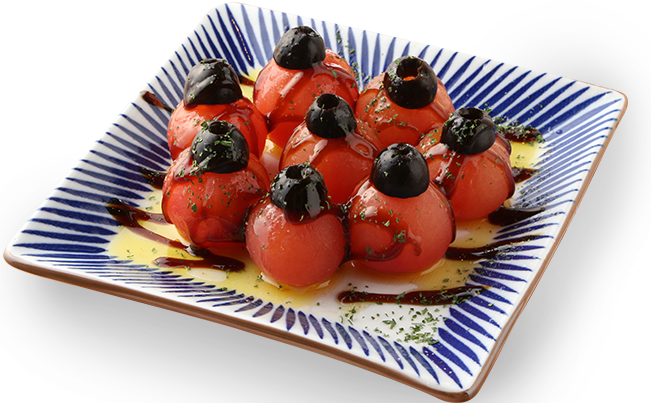
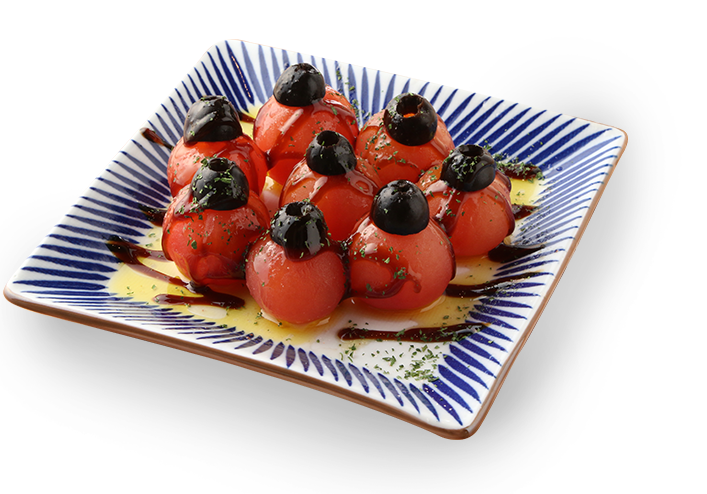
xong page counter lan 2

diff --git a/www/counter.html b/www/counter.html
@@ -48,7 +48,7 @@
     <link rel="stylesheet" href="shared/css/remodal.css" />
     <link rel="stylesheet" href="shared/css/shared.css" />
     <link rel="stylesheet" href="./shared/css/counter.css" />
-    <link rel="stylesheet" href="./shared/css/counter.scss" />
+    <!-- <link rel="stylesheet" href="./shared/css/counter.scss" /> -->
 
     <!-- font -->
     <link rel="preconnect" href="https://fonts.googleapis.com" />
@@ -290,7 +290,7 @@
               </div>
             </div>
             <div id="menu2" class="flex-pc">
-              <div class="left"><img src="./shared/img/counter/menu_img2.png" width="698" height="454" alt="サラダ" /></div>
+              <div class="left"><img src="./shared/img/counter/menu_img2.png" width="707" height="494" alt="サラダ" /></div>
               <div class="right menu-content">
                 <dl class="menu-dl">
                   <dt class="menu-dt-dd name">トマトのサラダ</dt>
@@ -304,7 +304,7 @@
               <div class="menu3 menu-content">
                 <dl class="menu-dl">
                   <dt class="menu-dt-dd">刺身の盛り合わせ</dt>
-                  <dd class="menu-dt-dd text-right">0,000円</dd>
+                  <dd class="menu-dt-dd text-right">0,000<small>円</small></dd>
                 </dl>
                 <p class="menu-txt">テキテキテキテキテキテキテキテキテキテキテキテキテキテキテキテキテキテキテキテキテキテキテキテキテキテキテキテキテキテキテキテキテキテキテキテキテキテキ</p>
                 <p class="icon_close text-center"><img src="./shared/img/counter/menu_icon_close.png" width="79" height="78" alt="close" /></p>

diff --git a/www/shared/css/counter.scss b/www/shared/css/counter.scss
@@ -9,6 +9,11 @@ body {
     background: url("../img/counter/bg.jpg") repeat top center;
   }
 }
+small {
+  @include pc {
+    font-size: 26px;
+  }
+}
 .order1-pc {
   @include pc {
     order: 1 !important;
@@ -102,14 +107,12 @@ body {
   }
 
   .wrap {
-    background: url("../img/counter/menu_deco.png") no-repeat bottom center/120% auto;
+    background: url(../img/counter/menu_deco.png) no-repeat bottom center/120% auto;
     @include pc {
       background-image: unset;
-      border-left: 1px solid red;
-      border-right: 1px solid red;
       position: relative;
       &:after {
-        content: url("../img/counter/menu_deco.png");
+        content: url(../img/counter/menu_deco.png);
         position: absolute;
         left: 284px;
         bottom: 114px;
@@ -273,10 +276,6 @@ body {
       @include pc {
         width: 408px;
         background: unset;
-      }
-      .p1 {
-      }
-      .p2 {
       }
     }
   }

diff --git a/www/shared/css/counter.css b/www/shared/css/counter.css
@@ -12,6 +12,12 @@ body {
 }
 
 @media only screen and (min-width: 768px) {
+  small {
+    font-size: 26px;
+  }
+}
+
+@media only screen and (min-width: 768px) {
   .order1-pc {
     order: 1 !important;
   }
@@ -120,17 +126,15 @@ body {
   }
 }
 #menu .wrap {
-  background: url("../img/counter/menu_deco.png") no-repeat bottom center/120% auto;
+  background: url(../img/counter/menu_deco.png) no-repeat bottom center/120% auto;
 }
 @media only screen and (min-width: 768px) {
   #menu .wrap {
     background-image: unset;
-    border-left: 1px solid red;
-    border-right: 1px solid red;
     position: relative;
   }
   #menu .wrap:after {
-    content: url("../img/counter/menu_deco.png");
+    content: url(../img/counter/menu_deco.png);
     position: absolute;
     left: 284px;
     bottom: 114px;
